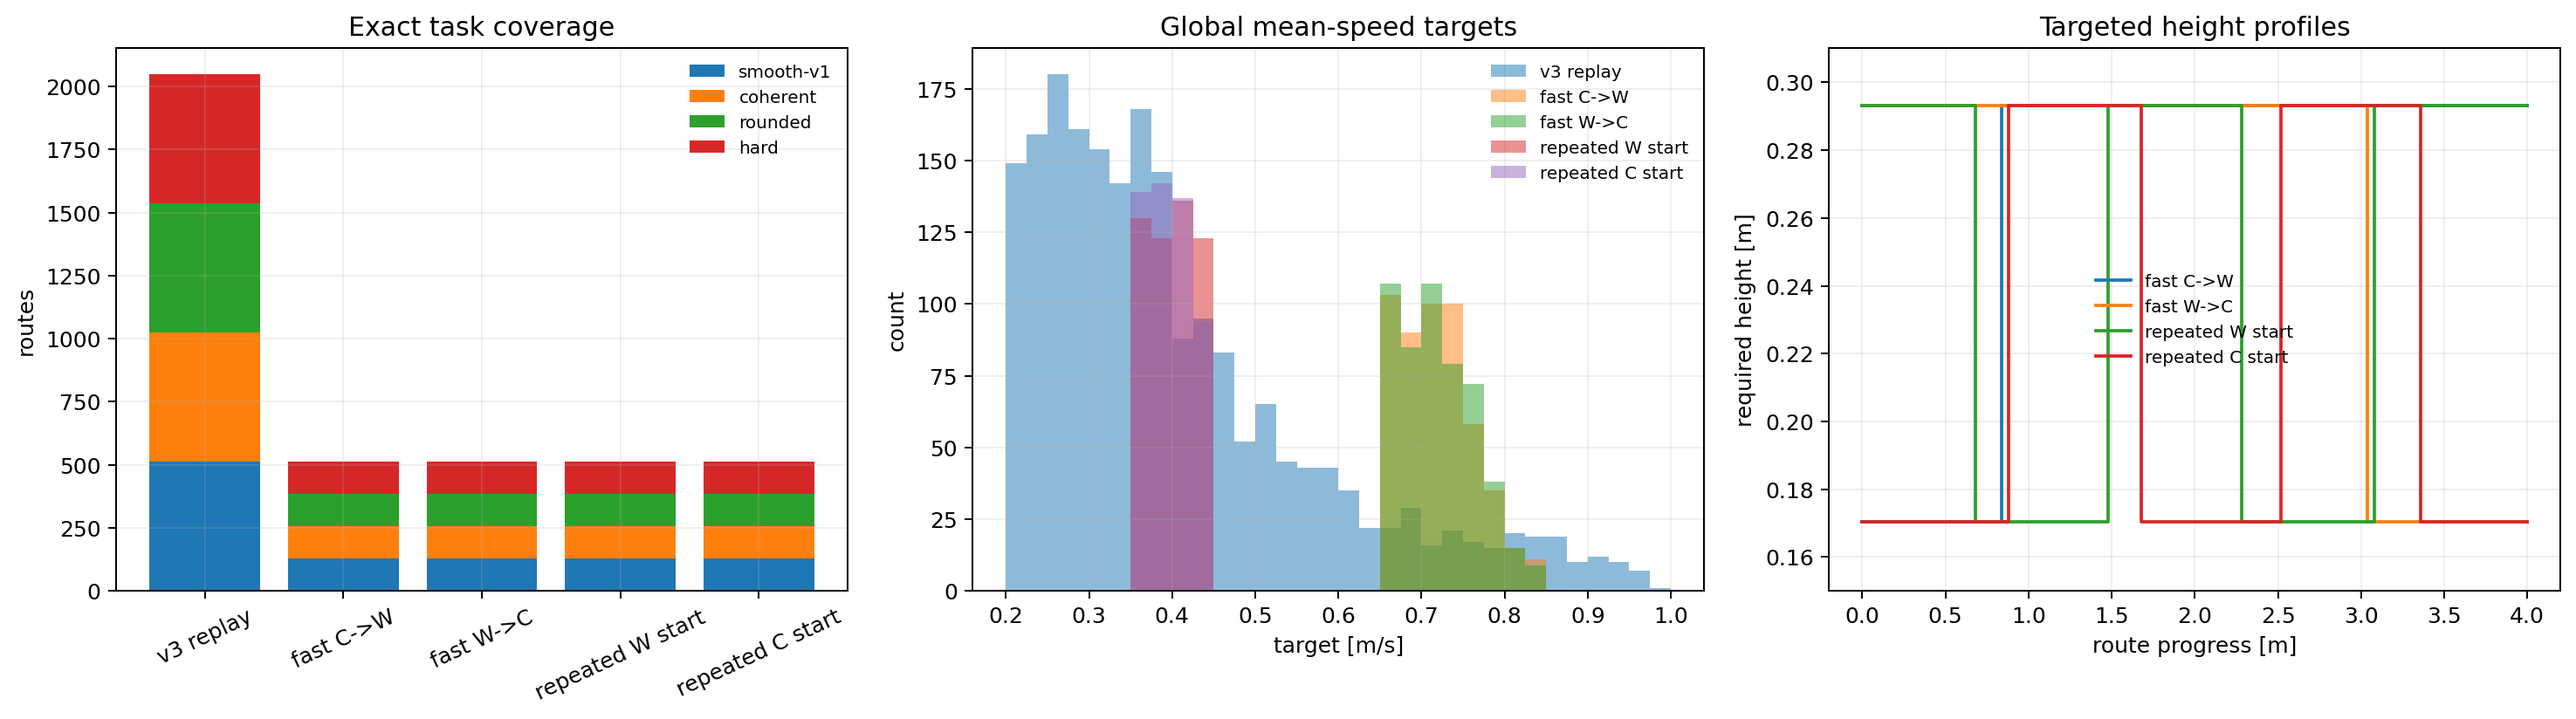
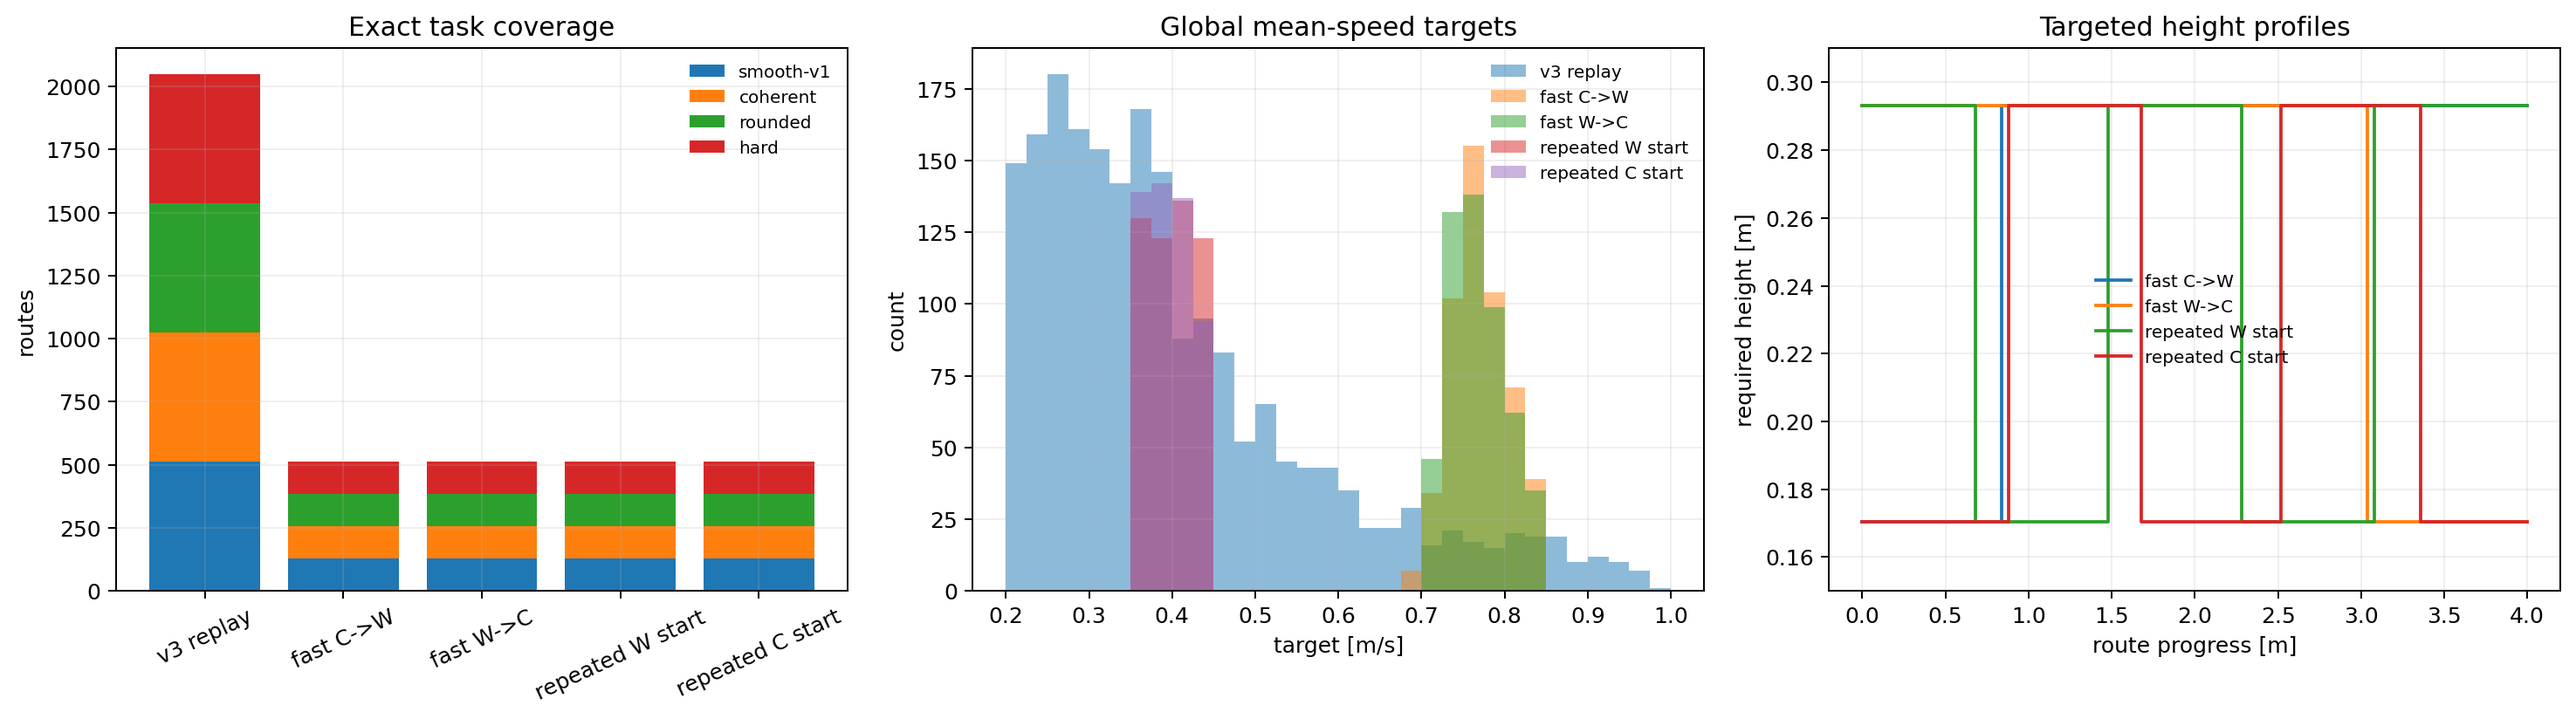
Focus v5 fast tasks on feasible frontier

Changed region(s): [[0.53, 0.2124, 0.6235, 0.8192]]

diff --git a/scripts/dppo_diffusion_rl/supported_hybrid_v5.py b/scripts/dppo_diffusion_rl/supported_hybrid_v5.py
@@ -5,7 +5,8 @@ contract.  It changes only reset-time task coverage:
 
 * 50% exact v3 replay;
 * 25% feasible single transitions with a short (0.8--1.2 m) crouch section
-  and a global mean-speed target in [0.65, 0.85] m/s;
+  and a global mean-speed target in the upper quartile of each route's
+  feasible [0.65, min(0.85, ceiling)] m/s interval;
 * 25% repeated binary height profiles at [0.35, 0.45] m/s.
 
 The feasibility estimate and coverage labels are private sampler state.  No
@@ -44,6 +45,7 @@ class SupportedHybridV5RouteBank(SupportedHybridV3RouteBank):
 
     FAST_SPEED_MIN_MPS = 0.65
     FAST_SPEED_MAX_MPS = 0.85
+    FAST_FRONTIER_FRACTION = 0.75
     REPEATED_SPEED_MIN_MPS = 0.35
     REPEATED_SPEED_MAX_MPS = 0.45
     RESTRICTED_SECTION_MIN_M = 0.8
@@ -306,9 +308,12 @@ class SupportedHybridV5RouteBank(SupportedHybridV3RouteBank):
             if torch.any(feasible < self.FAST_SPEED_MIN_MPS):
                 raise RuntimeError("An infeasible route reached the v5 fast sampler.")
             self.maximum_feasible_mean_speed[selected_ids] = ceiling[mask]
-            self.speed[selected_ids] = self.FAST_SPEED_MIN_MPS + torch.rand(
+            frontier_low = self.FAST_SPEED_MIN_MPS + self.FAST_FRONTIER_FRACTION * (
+                feasible - self.FAST_SPEED_MIN_MPS
+            )
+            self.speed[selected_ids] = frontier_low + torch.rand(
                 int(mask.sum()), device=self.device
-            ) * (feasible - self.FAST_SPEED_MIN_MPS)
+            ) * (feasible - frontier_low)
 
         repeated_mask = (coverage == self.REPEATED_WALK_START) | (
             coverage == self.REPEATED_CROUCH_START

diff --git a/scripts/dppo_diffusion_rl/tests/test_supported_hybrid_v5.py b/scripts/dppo_diffusion_rl/tests/test_supported_hybrid_v5.py
@@ -46,6 +46,13 @@ def test_v5_has_exact_initial_coverage_and_supported_targets() -> None:
     )
     assert torch.all(bank.speed[fast] >= bank.FAST_SPEED_MIN_MPS)
     assert torch.all(bank.speed[fast] <= bank.FAST_SPEED_MAX_MPS)
+    feasible = bank.maximum_feasible_mean_speed[fast].clamp(
+        max=bank.FAST_SPEED_MAX_MPS
+    )
+    frontier_low = bank.FAST_SPEED_MIN_MPS + bank.FAST_FRONTIER_FRACTION * (
+        feasible - bank.FAST_SPEED_MIN_MPS
+    )
+    assert torch.all(bank.speed[fast] >= frontier_low - 1.0e-6)
     assert torch.all(
         bank.speed[fast] <= bank.maximum_feasible_mean_speed[fast] + 1.0e-6
     )

diff --git a/scripts/dppo_diffusion_rl/experiments/supported_hybrid_v5/plot_distribution.py b/scripts/dppo_diffusion_rl/experiments/supported_hybrid_v5/plot_distribution.py
@@ -147,6 +147,12 @@ def main() -> None:
             )
             for coverage_class in range(5)
         },
+        "fast_frontier_fraction": bank.FAST_FRONTIER_FRACTION,
+        "fast_target_fraction_at_or_above": {
+            "0.75_mps": float((bank.speed[fast] >= 0.75).float().mean()),
+            "0.80_mps": float((bank.speed[fast] >= 0.80).float().mean()),
+            "0.84_mps": float((bank.speed[fast] >= 0.84).float().mean()),
+        },
         "fast_target_exceeds_private_ceiling": int(
             (bank.speed[fast] > bank.maximum_feasible_mean_speed[fast] + 1.0e-6).sum()
         ),

diff --git a/scripts/dppo_diffusion_rl/experiments/supported_hybrid_v5/README.md b/scripts/dppo_diffusion_rl/experiments/supported_hybrid_v5/README.md
@@ -30,7 +30,9 @@ coverage changes:
 - **50% v3 replay:** the exact v3 profile and speed draw is retained;
 - **25% fast single transitions:** both directions are balanced, the crouch
   section is continuously sampled in `[0.8, 1.2]` m, and route-average speed
-  is sampled in `[0.65, min(0.85, private ceiling)]` m/s;
+  is sampled from the upper feasible quartile. With
+  `c = min(0.85, private ceiling)` and
+  `l = 0.65 + 0.75 (c - 0.65)`, the target is `Uniform(l, c)` m/s;
 - **25% repeated profiles:** both starting postures are balanced, binary
   section lengths are continuously randomized around the 0.8 m evaluation
   case, and speed lies in `[0.35, 0.45]` m/s.
@@ -40,6 +42,13 @@ hard-waypoint geometry. Fast labels are assigned only where the private
 Phase-A support model admits at least 0.65 m/s. If an asynchronous reset batch
 has no feasible matched replacement, that sample falls back to v3 replay; an
 impossible deadline is never inserted.
+
+The upper-quartile draw is deliberate task-frontier sampling. The 50% v3
+replay already retains the broad/easy speed distribution, while the dedicated
+fast bucket must put useful mass near the measured 0.75--0.85 m/s failure
+range. Sampling its whole feasible interval overrepresented already-solved
+0.65--0.75 m/s cases. This changes only which feasible deadlines are sampled;
+it neither supplies a local speed controller nor changes the actor inputs.
 
 This is sampling, not a controller. The actor still sees only path preview,
 required height profile, terminal pose and one global remaining-speed budget.

diff --git a/scripts/dppo_diffusion_rl/RESEARCH_DESIGN.md b/scripts/dppo_diffusion_rl/RESEARCH_DESIGN.md
@@ -426,3 +426,9 @@ and preserves the central claim: a diffusion actor discovers local gait/speed
 allocation from a global mean-speed objective without a skill index or local
 speed schedule. Full implementation and preregistered gates are documented in
 `experiments/supported_hybrid_v5/README.md`.
+
+Within the dedicated fast-transition bucket, v5 samples only the upper
+quartile of each route's feasible `[0.65, min(0.85, ceiling)]` interval. This
+keeps every target inside the private Phase-A support estimate while focusing
+the intervention on the measured 0.75--0.85 m/s frontier; the unchanged 50%
+v3 replay supplies the broader and easier speed coverage.
